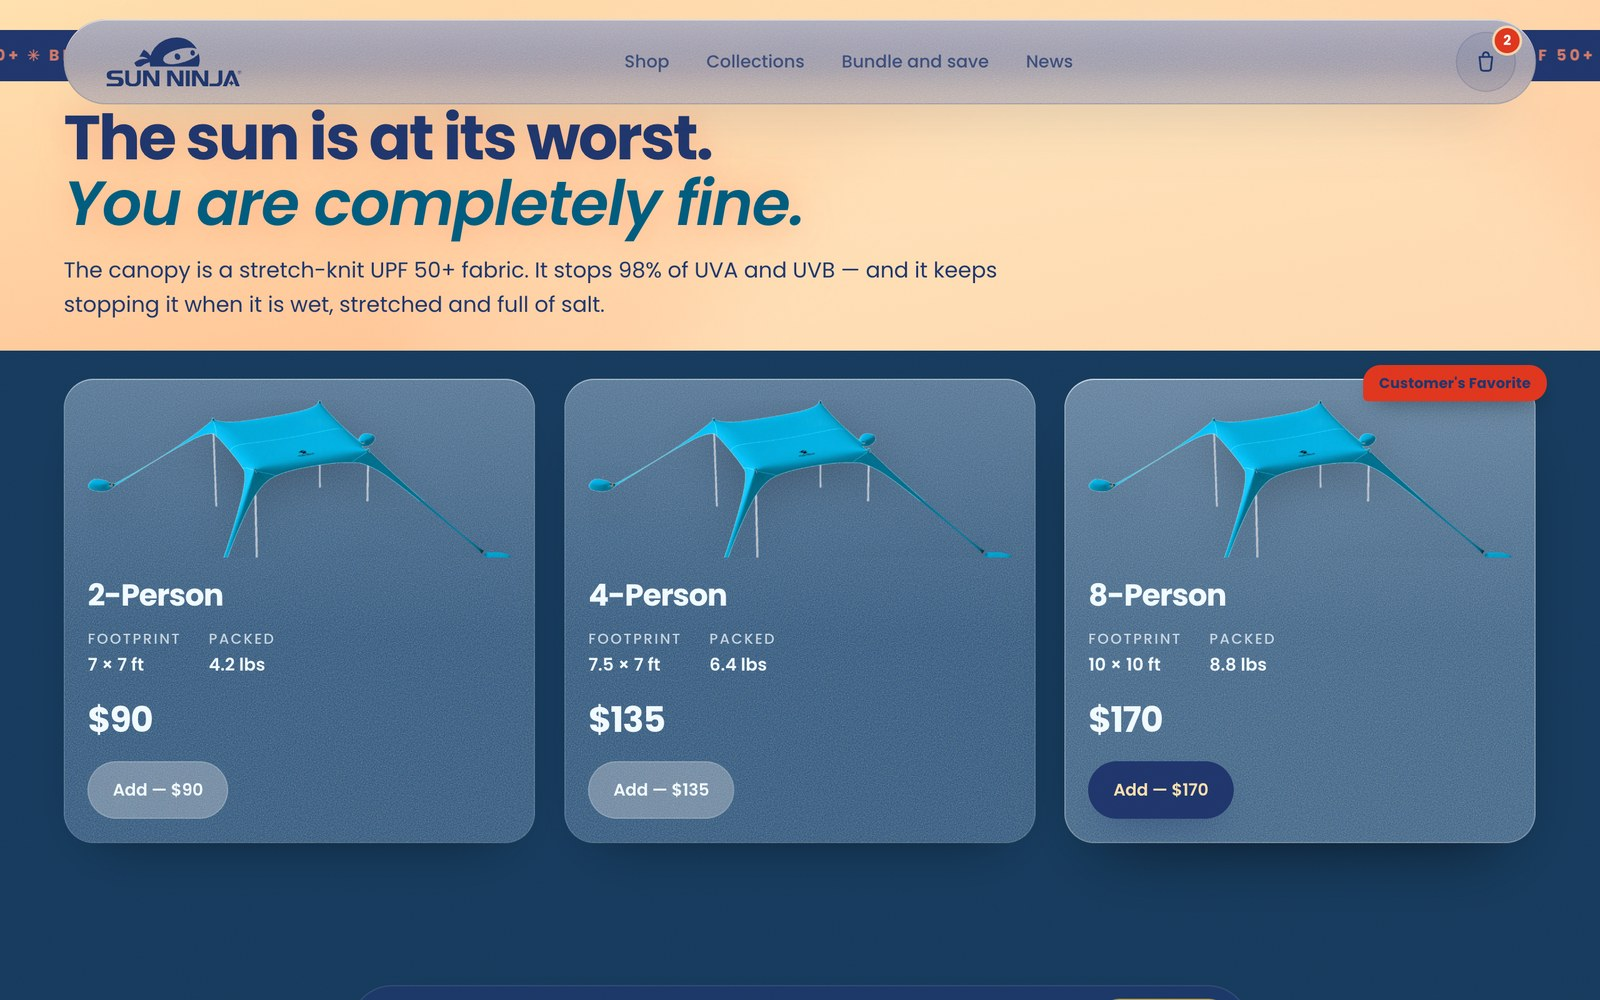
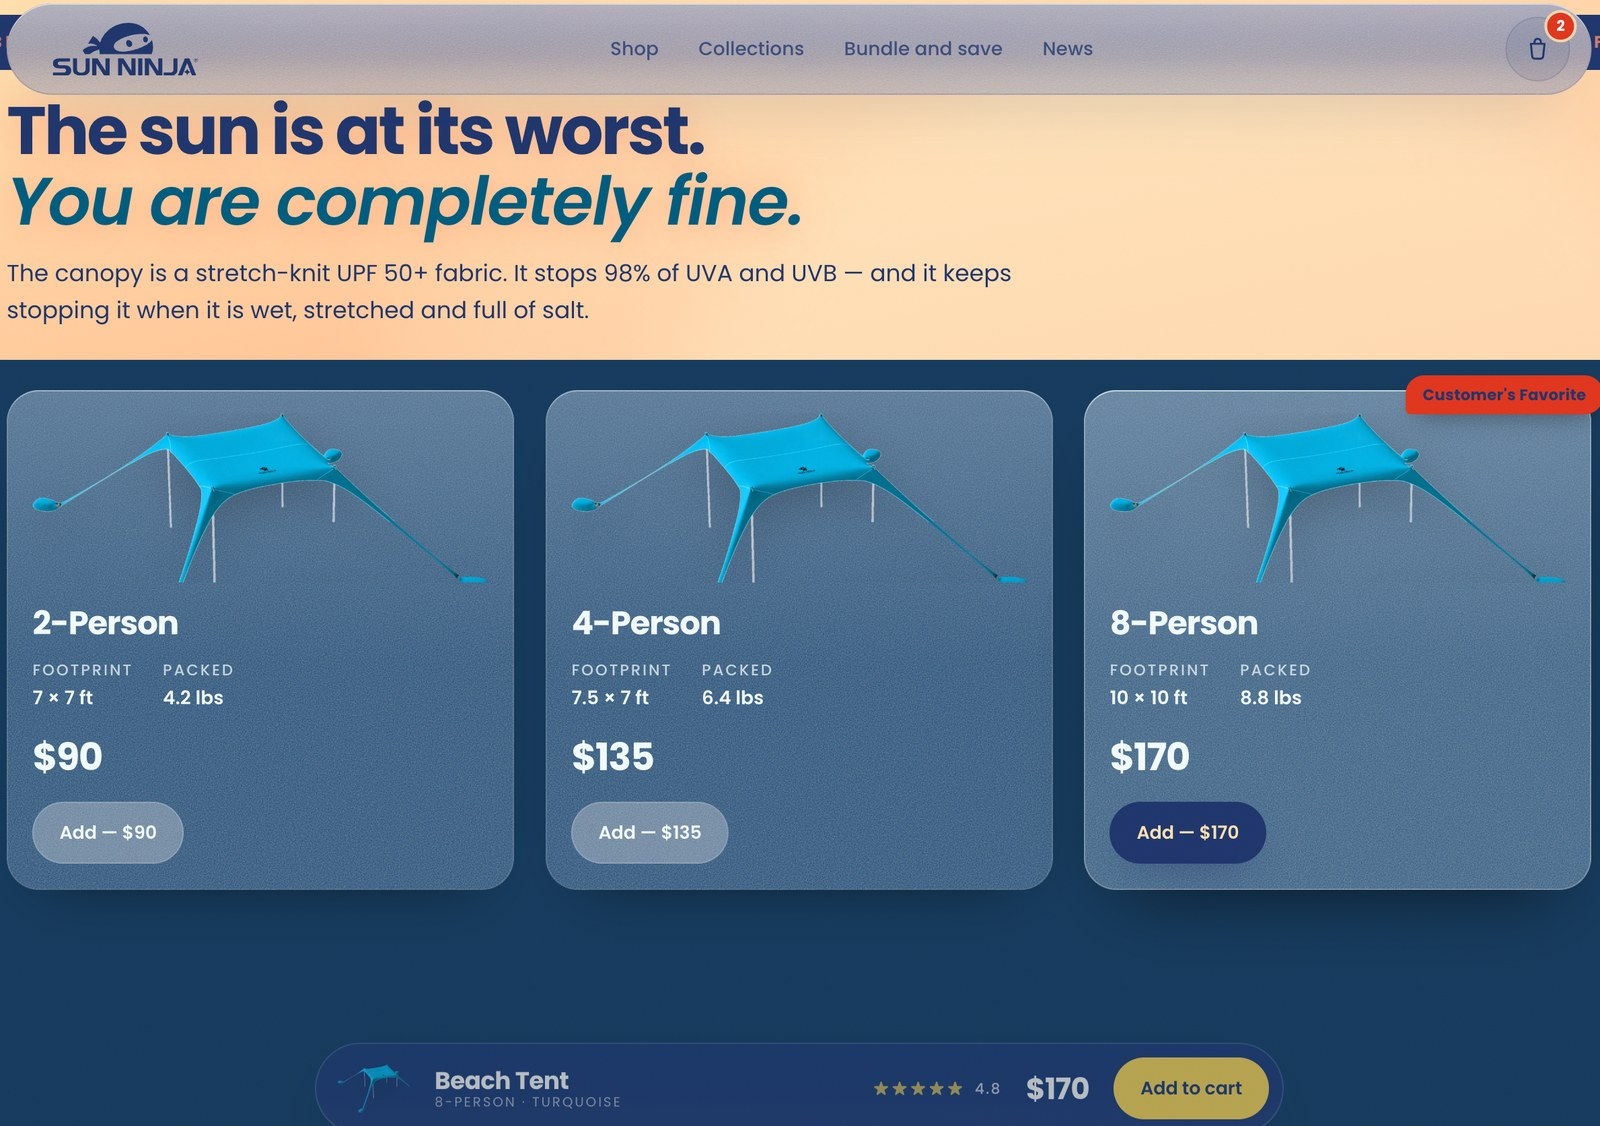
Stand the Sun Ninja cover on one flat tone
The cover was a gradient of the project's own sky with a screenshot of
that same sky on top of it — a gradient behind a gradient, which reads as
noise rather than as weather. It now sits the way base360's does: one flat
pale tone (#FFEDDC, the Sunrise `foam` off the prototype's DAY table),
eyebrow, the page's own sentence, one support line, and the work as a
single panel beside it.

The panel is cut to the shot's own ratio so the page sits inside at page
scale. Cropped in, the page's headline grew past the cover's own and the
card read as two claims arguing. It now carries the whole band — nav,
headline, the three sizes, the sticky buy bar — at noon, while the card's
type sits on dawn: the claim is shown rather than described.

diff --git a/src/cover_sunninja.html b/src/cover_sunninja.html
@@ -34,32 +34,29 @@
   src:url(/assets/font/sn-po-600i.woff2) format('woff2')}
 
 :root{
-  --sky-1:#FFE0AE; --sky-2:#FF8A66;
+  /* one flat tone, the way base360's cover sits on one pale blue: the sky
+     ramp belongs to the page, and a gradient behind a screenshot of a
+     gradient reads as noise. This is the Sunrise `foam` off the same DAY
+     table, lifted a little so navy type has somewhere to land. */
+  --paper:#FFEDDC;
   --ink:#20366C; --accent:#0F7FA8;
 }
 *{margin:0;padding:0;box-sizing:border-box}
 html,body{width:1600px;height:1000px;overflow:hidden}
 body{
   font-family:'Poppins',system-ui,sans-serif;
-  background:linear-gradient(176deg,var(--sky-1) 0%,#FFC79A 46%,var(--sky-2) 100%);
+  background:var(--paper);
   position:relative;
-}
-/* the sun sits where the page puts it at first light: low, left of centre,
-   a wide soft bloom rather than a disc */
-.sun{
-  position:absolute; left:26%; top:34%; width:1100px; height:1100px;
-  transform:translate(-50%,-50%); border-radius:50%; pointer-events:none;
-  background:radial-gradient(circle,rgba(255,247,214,.85) 0%,rgba(255,236,190,.42) 34%,rgba(255,225,175,0) 68%);
 }
 .wrap{position:relative; height:100%; display:flex; align-items:center; padding:0 0 0 96px}
 
-.copy{width:620px; flex:none}
+.copy{width:560px; flex:none}
 .eyebrow{
   font-size:15px; font-weight:600; letter-spacing:.22em; text-transform:uppercase;
   color:var(--accent); margin-bottom:34px;
 }
 .claim{
-  font-size:82px; font-weight:700; line-height:1.0; letter-spacing:-.025em;
+  font-size:72px; font-weight:700; line-height:1.02; letter-spacing:-.025em;
   color:var(--ink);
 }
 .claim em{display:block; font-style:italic; font-weight:600; color:var(--accent)}
@@ -69,16 +66,19 @@ body{
 }
 
 /* the artefact, off the right edge the way the phone runs off base360's */
+/* the whole band, not a crop of it: the panel is cut to the shot's own ratio
+   so the page sits inside at page scale. Zoomed in, its headline grows past
+   the cover's own and the card reads as two competing claims. */
 .shot{
-  position:absolute; left:790px; top:130px; width:900px; height:740px;
-  border-radius:26px; overflow:hidden;
-  box-shadow:0 46px 90px rgba(32,54,108,.30), 0 4px 14px rgba(32,54,108,.16);
+  position:absolute; left:706px; top:202px; width:844px; height:594px;
+  border-radius:18px; overflow:hidden;
+  box-shadow:0 34px 68px rgba(32,54,108,.20), 0 2px 8px rgba(32,54,108,.10);
 }
 .shot img{width:100%; height:100%; object-fit:cover; object-position:left top; display:block}
 </style>
 </head>
 <body>
-<div class="sun"></div>
+
 <div class="wrap">
   <div class="copy">
     <p class="eyebrow">Sun Ninja · Storefront redesign</p>

diff --git a/src/portfolio-artifact.tmpl.html b/src/portfolio-artifact.tmpl.html
@@ -1323,7 +1323,7 @@ const PROJECTS = [
       yani iddianın kanıtı kartın üstünde duruyor. Zaten 16:10, --ratio native
       ile sadece küçültülüyor: genişletme yolu alttaki şeftali degradesini
       "kural çizgisi" sanıp bant basıyor. */
-   cover:'{{ASSET:cover/sunninja.webp}}', coverBg:'#FFE0AE',
+   cover:'{{ASSET:cover/sunninja.webp}}', coverBg:'#FFEDDC',
    logo:null,                                       client:'Concept',          clientLogo:null,
    year:'2026', disc:['web','uiux','product']},
 

diff --git a/404.html b/404.html
@@ -1338,7 +1338,7 @@ const PROJECTS = [
       yani iddianın kanıtı kartın üstünde duruyor. Zaten 16:10, --ratio native
       ile sadece küçültülüyor: genişletme yolu alttaki şeftali degradesini
       "kural çizgisi" sanıp bant basıyor. */
-   cover:'/assets/cover/sunninja.webp', coverBg:'#FFE0AE',
+   cover:'/assets/cover/sunninja.webp', coverBg:'#FFEDDC',
    logo:null,                                       client:'Concept',          clientLogo:null,
    year:'2026', disc:['web','uiux','product']},
 

diff --git a/case/alti/index.html b/case/alti/index.html
@@ -1338,7 +1338,7 @@ const PROJECTS = [
       yani iddianın kanıtı kartın üstünde duruyor. Zaten 16:10, --ratio native
       ile sadece küçültülüyor: genişletme yolu alttaki şeftali degradesini
       "kural çizgisi" sanıp bant basıyor. */
-   cover:'/assets/cover/sunninja.webp', coverBg:'#FFE0AE',
+   cover:'/assets/cover/sunninja.webp', coverBg:'#FFEDDC',
    logo:null,                                       client:'Concept',          clientLogo:null,
    year:'2026', disc:['web','uiux','product']},
 

diff --git a/case/cursor/index.html b/case/cursor/index.html
@@ -1338,7 +1338,7 @@ const PROJECTS = [
       yani iddianın kanıtı kartın üstünde duruyor. Zaten 16:10, --ratio native
       ile sadece küçültülüyor: genişletme yolu alttaki şeftali degradesini
       "kural çizgisi" sanıp bant basıyor. */
-   cover:'/assets/cover/sunninja.webp', coverBg:'#FFE0AE',
+   cover:'/assets/cover/sunninja.webp', coverBg:'#FFEDDC',
    logo:null,                                       client:'Concept',          clientLogo:null,
    year:'2026', disc:['web','uiux','product']},
 

diff --git a/case/whallet/index.html b/case/whallet/index.html
@@ -1338,7 +1338,7 @@ const PROJECTS = [
       yani iddianın kanıtı kartın üstünde duruyor. Zaten 16:10, --ratio native
       ile sadece küçültülüyor: genişletme yolu alttaki şeftali degradesini
       "kural çizgisi" sanıp bant basıyor. */
-   cover:'/assets/cover/sunninja.webp', coverBg:'#FFE0AE',
+   cover:'/assets/cover/sunninja.webp', coverBg:'#FFEDDC',
    logo:null,                                       client:'Concept',          clientLogo:null,
    year:'2026', disc:['web','uiux','product']},
 

diff --git a/cv/index.html b/cv/index.html
@@ -1338,7 +1338,7 @@ const PROJECTS = [
       yani iddianın kanıtı kartın üstünde duruyor. Zaten 16:10, --ratio native
       ile sadece küçültülüyor: genişletme yolu alttaki şeftali degradesini
       "kural çizgisi" sanıp bant basıyor. */
-   cover:'/assets/cover/sunninja.webp', coverBg:'#FFE0AE',
+   cover:'/assets/cover/sunninja.webp', coverBg:'#FFEDDC',
    logo:null,                                       client:'Concept',          clientLogo:null,
    year:'2026', disc:['web','uiux','product']},
 

diff --git a/index.html b/index.html
@@ -1338,7 +1338,7 @@ const PROJECTS = [
       yani iddianın kanıtı kartın üstünde duruyor. Zaten 16:10, --ratio native
       ile sadece küçültülüyor: genişletme yolu alttaki şeftali degradesini
       "kural çizgisi" sanıp bant basıyor. */
-   cover:'/assets/cover/sunninja.webp', coverBg:'#FFE0AE',
+   cover:'/assets/cover/sunninja.webp', coverBg:'#FFEDDC',
    logo:null,                                       client:'Concept',          clientLogo:null,
    year:'2026', disc:['web','uiux','product']},
 
